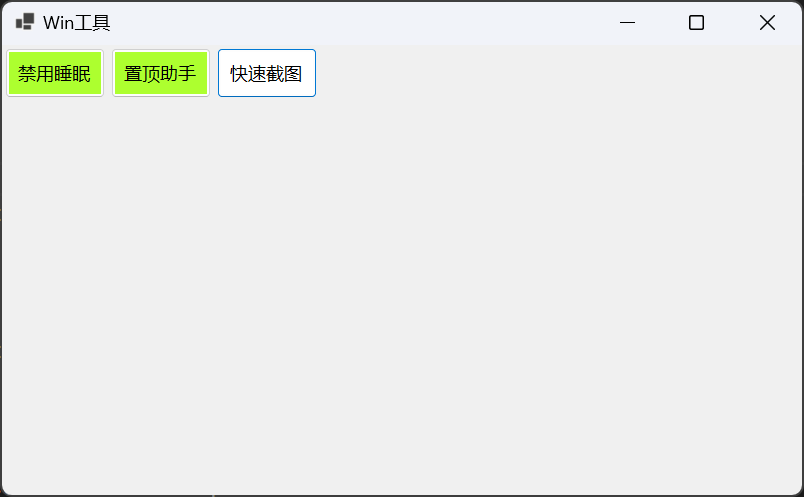
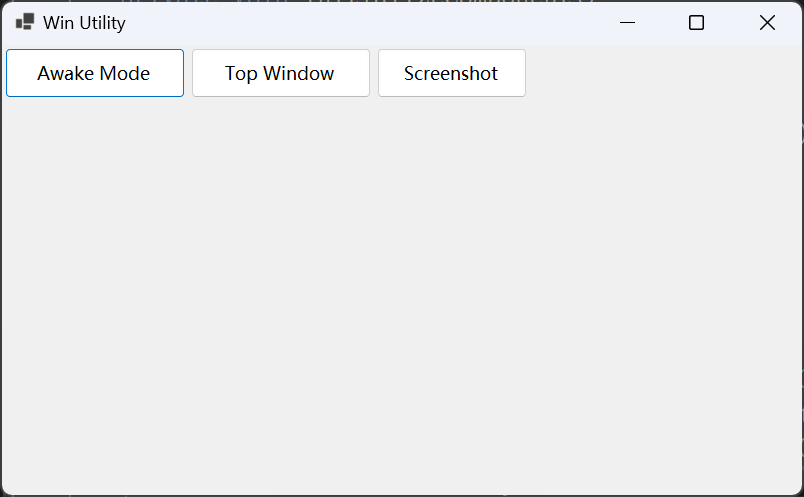
[UPDATE]

diff --git a/Form1.Designer.cs b/Form1.Designer.cs
@@ -30,7 +30,7 @@ namespace win_helper
             this.components = new System.ComponentModel.Container();
             this.AutoScaleMode = System.Windows.Forms.AutoScaleMode.Font;
             this.ClientSize = new System.Drawing.Size(800, 450);
-            this.Text = "Win工具";
+            this.Text = "Win Utility";
             this.Controls.Add(panel);
             this.ResumeLayout(false);
         }
@@ -39,7 +39,7 @@ namespace win_helper
         {
             MyButton button = new MyButton(new StayAwakeService())
             {
-                Width = 100,
+                Width = 180,
                 Height = 50,
                 Text = "Awake Mode",
                 BackColor = Color.White,
@@ -64,7 +64,7 @@ namespace win_helper
         {
             MyButton button = new MyButton(new TopService())
             {
-                Width = 100,
+                Width = 180,
                 Height = 50,
                 Text = "Top Window",
                 BackColor = Color.White,
@@ -89,7 +89,7 @@ namespace win_helper
         {
             MyButton button = new MyButton(new CaptureService())
             {
-                Width = 100,
+                Width = 150,
                 Height = 50,
                 Text = "Screenshot",
                 BackColor = Color.White,
